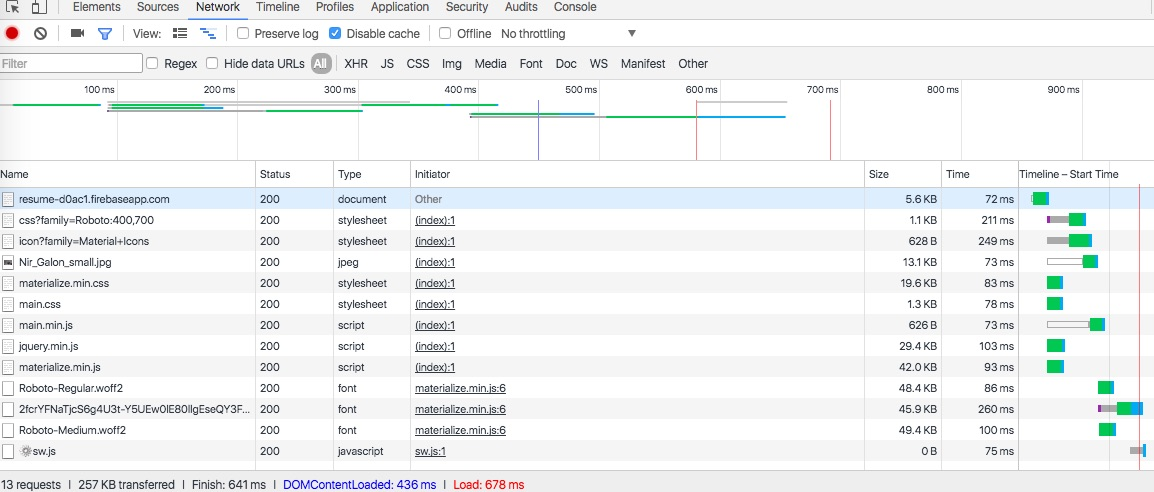
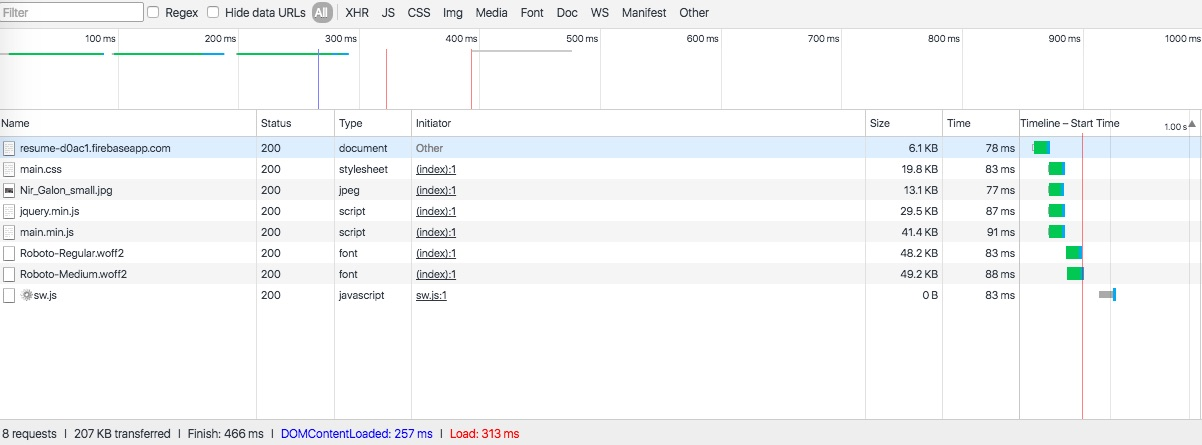
Finish the case study section.

diff --git a/app/_posts/2016-10-13-jekyll-starter-kit.md b/app/_posts/2016-10-13-jekyll-starter-kit.md
@@ -56,15 +56,21 @@ npm run gulp deploy
 
 I take my own little resume website and using Jekyll Starter Kit generator I convert it from just the Jekyll website it was before, to a full PWA website.
 
-The old website was load 10 requests, which is 160KB and finish loading in 332 ms.
+The old website was load 7 requests and finish loading in 370 ms.
 
 {% include thumbnail.html image_path="assets/images/posts/jekyll-starter-kit/resume-old-network-tab.jpg" caption="Old Resume Network Tab" %}
 
-The new website was load
+The new website was load 8 requests (with the new service worker) and finish loading in 466 ms. But as you can see the `sw.js` file was loaded after the site was finished loading, it doesn't interrupt the user (it's after the red line in the `Timeline` section).
 
 {% include thumbnail.html image_path="assets/images/posts/jekyll-starter-kit/resume-new-network-tab.jpg" caption="New Resume Network Tab" %}
 
-As we can see.. And the next load (comeback user)..
+So, we get a little overhead in our tiny one page website. But on the second reload we cut back the files size to 97KB and finish load the website in 160 ms (about a third), because almost all of the files are loading from the service worker.
+
+{% include thumbnail.html image_path="assets/images/posts/jekyll-starter-kit/resume-new-network-reload.jpg" caption="New Resume After Reload" %}
+
+And after couple of milliseconds it load the the `sw.js` from cache (because it doesn't changed) and the `Finish` text update to 1.18s (but it doesn't matter to us because the website already finished loading).
+
+{% include thumbnail.html image_path="assets/images/posts/jekyll-starter-kit/resume-new-reload-with-sw.jpg" caption="New Resume After Reload With SW" %}
 
 ## How to use it
 
